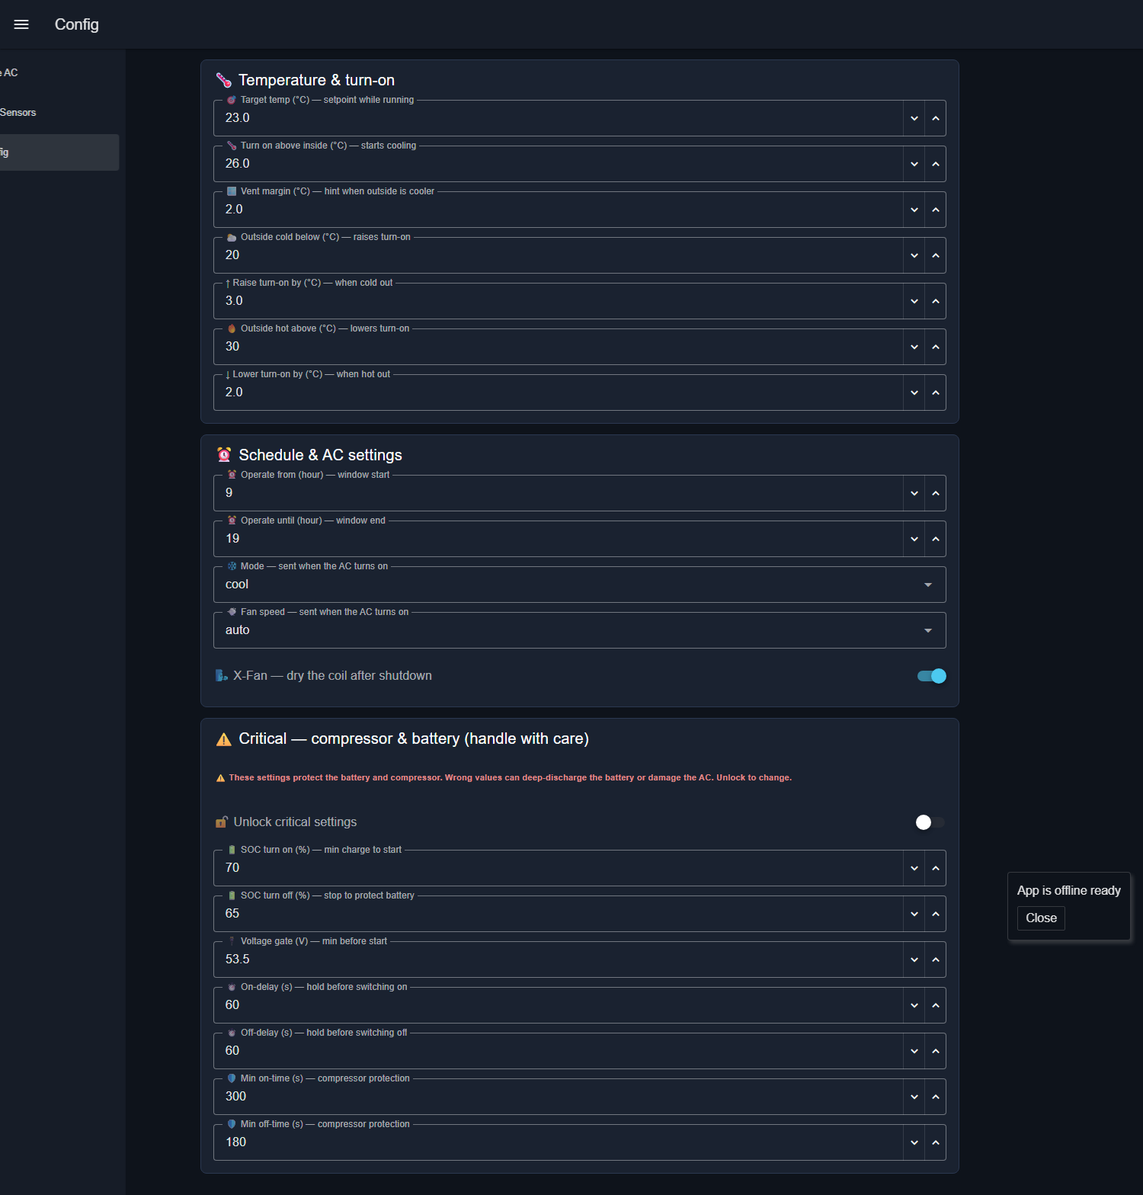
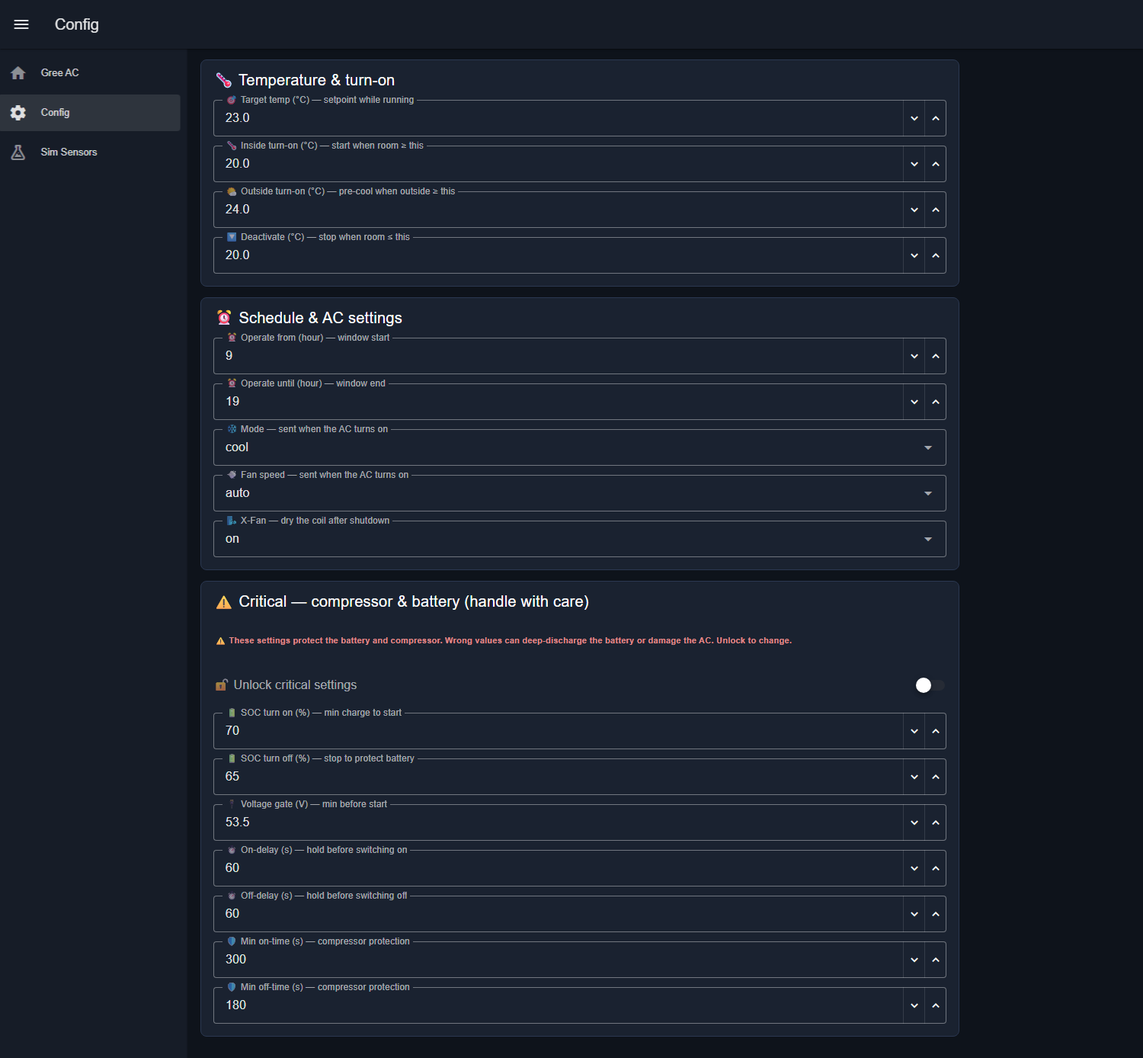
docs: refresh dashboard screenshots, restructure README, streamline CLAUDE.md
- Regenerate all four dashboard screenshots against the current stack
  (home, config, sim-sensors, sim simulator) — they now reflect the
  segmented operating-mode panel, mdi gauge icons, deactivate-temp config,
  and renamed trend series.
- README: lead the Usage section with the real Dashboard 2.0 production flow
  + home/config screenshots; move the legacy Dashboard-1.0 example into a
  clearly-labelled collapsed block; embed the sim-sensors page; fix the
  screenshot-generation note and intro grammar.
- CLAUDE.md: streamline to the high-signal, repo-specific facts; add the
  Dashboard 2.0 styling and config-persistence gotchas learned in this pass.

diff --git a/CLAUDE.md b/CLAUDE.md
@@ -4,124 +4,68 @@ Guidance for Claude Code sessions in this repo.
 
 ## What this repo is
 
-`node-red-contrib-gree-hvac` — Node-RED nodes that control Gree air-conditioner units over their UDP/AES protocol. The repo also ships a software simulator of a Gree AC plus a docker-compose stack so the nodes can be developed and tested without hardware.
+`node-red-contrib-gree-hvac` — Node-RED nodes that control Gree air-conditioners over their UDP/AES protocol. Ships a software simulator of a Gree AC plus a docker-compose stack so the nodes can be developed and tested without hardware.
 
 ## Layout
 
 ```
-gree-hvac/                 # the published Node-RED nodes
-  gree-hvac.js             #   main control + observe node (wraps gree-hvac-client + ConnectionManager)
-  gree-hvac-config.js      #   device config node (host + port)
-  gree-hvac-discover.js    #   UDP broadcast discovery node
-  lib/connection-manager.js#   24/7 reconnect, backoff, watchdogs
-  lib/validation.js
-test/                      # unit tests for the nodes (node:test)
-test/e2e/                  # end-to-end tests that drive the full docker-compose stack
-sim/                       # standalone Gree simulator
-  src/cipher.js            #   AES-ECB + AES-GCM (mirrors gree-hvac-client/src/encryption-service)
-  src/transformer.js       #   vendor <-> friendly property/value maps
-  src/state.js             #   mutable device state (Pow, Mod, SetTem, TemSen, ...)
-  src/simulator.js         #   UDP server: discover / bind / status / cmd handlers
-  src/dashboard.js         #   HTTP + SSE dashboard (state, faults, sensors)
-  src/sensors.js           #   mock Victron/Ruuvi sensor values for the example flow
-  src/fault-injection.js   #   dropEvery / dropProbability / latency / jitter
-  bin/gree-sim.js          #   CLI entrypoint (env-driven config)
-  public/                  #   dashboard HTML/CSS/JS
-  test/                    #   unit tests for the sim itself
-docker/nodered/            # Node-RED service image: contrib package + sample flow + mocks tab
-docker-compose.yml         # gree-sim + node-red on a user-defined bridge; sim aliased as gree.lan
-.github/workflows/
-  ci.yml                   #   lint + unit tests (Node 18 + 20 matrix)
-  e2e.yml                  #   sim unit tests + docker-compose e2e
-  release.yml              #   tag-driven (push v*) — sets package version from tag, npm publish, GH release with .tgz
+gree-hvac/                     published nodes
+  gree-hvac.js                   control/observe node (wraps gree-hvac-client + ConnectionManager)
+  lib/connection-manager.js      24/7 reconnect, backoff, watchdogs; swallows client 'error' events
+  lib/validation.js              drops unknown/invalid properties before send
+  gree-hvac-config.js            device host+port      gree-hvac-discover.js  UDP broadcast discovery
+sim/                           standalone Gree simulator (cipher, transformer, state,
+                               UDP server, HTTP+SSE dashboard, fault injection)
+docker/nodered/                Node-RED image: contrib pkg + flow sources + merge/push/pull scripts
+test/  test/e2e/  sim/test/    node:test unit + e2e suites
+docs/PROTOCOL.md               full protocol + property/value spec
 ```
 
 ## Daily commands
 
-```bash
+```
 npm test           # unit tests for the contrib nodes
-npm run test:sim   # unit tests for the simulator (in-process)
+npm run test:sim   # simulator unit tests (in-process)
 npm run sim:up     # docker compose up -d --build (sim + node-red)
 npm run sim:down   # tear down + remove volumes
 npm run sim:logs   # tail container logs
-npm run test:e2e   # bring stack up, run e2e suite, tear down
-npm run flow:push  # deploy host flow sources to the running editor (no rebuild)
+npm run test:e2e   # bring stack up, run e2e, tear down
+npm run flow:push  # deploy flow sources to the running editor (no rebuild)
 npm run flow:pull  # capture the editor's deployed flow back into the source files
 ```
 
-While iterating on e2e tests: `E2E_SKIP_BUILD=1 E2E_KEEP_UP=1 npm run test:e2e` to reuse images and leave the stack running.
+Iterating on e2e: `E2E_SKIP_BUILD=1 E2E_KEEP_UP=1 npm run test:e2e` reuses images and leaves the stack up.
 
 ## Conventions
 
-- **Node version**: 18+ (matches `engines.node` and the dockerfiles).
-- **Tests**: `node --test` (no jest/mocha). Tests live next to what they cover (`test/`, `sim/test/`, `test/e2e/`).
-- **Logging**: each node accepts a `logLevel` config; the contrib node forwards it into the client.
-- **Style**: ESLint + Prettier enforced via `npm run lint`. Single quotes, 4-space indent in JS, 2-space in JSON/YAML.
+- Node 18+ (`engines.node` + dockerfiles).
+- Tests: `node --test` (no jest/mocha), beside what they cover.
+- Style: ESLint + Prettier (`npm run lint`). Single quotes, 4-space JS, 2-space JSON/YAML. The pre-push hook runs `eslint --fix`; `GREE_SKIP_LINT=1 git push` to skip.
+- Each node takes a `logLevel`; the contrib node forwards it into the client.
 
-## Gree protocol cheat-sheet
+## Editing the flow (the non-obvious part)
 
-Full human-readable spec (transport, encryption, message flow, every property + value, the TemSen +40 quirk): **`docs/PROTOCOL.md`**. Quick reference below.
+Flow source is split: `docker/nodered/flows.user.json` = **production** (control logic + dashboards; deploy to real hardware), `flows.mocks.json` = **sim-only** (mock Victron/Ruuvi sensors + Sim Sensors/Clock pages). `merge-flows.js` concatenates them into `flows.json` at image build time. **Don't add mock data to the production file — edit `flows.mocks.json`.**
 
-The wire format lives in `node_modules/gree-hvac-client/src/`. The simulator mirrors it.
+- `npm run flow:push` — merge both sources → full-deploy to the running editor (instant, no rebuild); then refresh the browser.
+- `npm run flow:pull` — capture the deployed flow → split back into the two source files (order-preserving, so a small edit is a small diff; adds harmless Node-RED normalisation).
+- Both target `http://127.0.0.1:1880` (override `NR_URL`); optional target arg (`:user`/`:mocks`). A rebuild (`sim:dev`) is only needed when contrib node code or the image changes — not for flow edits.
 
-| Step       | Client → Device                                       | Device → Client                              |
-| ---------- | ----------------------------------------------------- | -------------------------------------------- |
-| Discover   | `{"t":"scan"}` (unencrypted, UDP broadcast or unicast) | `{t:"pack", pack:<ECB(generic_key) {t:"dev", cid, mac, name, ...}>}` |
-| Bind       | `{t:"pack", pack:<ECB(generic_key) {t:"bind", mac, uid:0}>}` | `{t:"pack", pack:<ECB(generic_key) {t:"bindok", key:<16-char device key>}>}` |
-| Status     | `{t:"pack", pack:<ECB(device_key) {t:"status", mac, cols:[...]}>}` | `{t:"pack", pack:<ECB(device_key) {t:"dat", cols, dat}>}` |
-| Set        | `{t:"pack", pack:<ECB(device_key) {t:"cmd", opt:[...], p:[...]}>}` | `{t:"pack", pack:<ECB(device_key) {t:"res", opt, val}>}` |
+Dashboard is **Dashboard 2.0** (`@flowfuse/node-red-dashboard`):
+- `ui-button` ignores the legacy `bgcolor`/`color`; use `buttonColor`/`textColor` (settable at runtime via `msg.ui_update`). There is no dynamic `enabled` — "disable" a button by recolouring it grey.
+- Inspect a widget's exact schema: `docker exec gree-nodered sh -c 'grep -n "defaults:" -A40 /data/node_modules/@flowfuse/node-red-dashboard/nodes/widgets/ui_<widget>.html'`.
 
-The same envelope works for GCM-cipher devices; the inner payload is AES-128-GCM with a fixed nonce + AAD (`qualcomm-test`). Generic keys: ECB = `a3K8Bx%2r8Y7#xDh`, GCM = `{yxAHAY_Lm6pbC/<`. After `bindok`, both sides switch to the device key.
+## Gree protocol
+
+Full spec (transport, encryption, every property + value, the TemSen +40 quirk): **`docs/PROTOCOL.md`**. The simulator mirrors `node_modules/gree-hvac-client/src/`. Generic keys: ECB `a3K8Bx%2r8Y7#xDh`, GCM `{yxAHAY_Lm6pbC/<`; after `bindok` both sides switch to the device key.
 
 ## Releasing
 
-Releases are tag-driven (`release.yml` triggers on `push: tags: v*`). To cut a release:
+Tag-driven (`release.yml` on `push: tags: v*`): sets `package.json` version from the tag, `npm publish` (currently gated/disabled), GH Release with the `.tgz`. No auto-bump — pick the version manually.
 
-```bash
-git tag -s vX.Y.Z -m "Release vX.Y.Z"
-git push origin vX.Y.Z
-```
+## Gotchas
 
-The workflow sets `package.json` version from the tag, runs `npm publish` (needs `NPM_TOKEN` secret + the `release` GitHub environment), and creates a GitHub Release with the `.tgz` attached. There is no auto-bump from commit messages — pick the version manually.
-
-## Production vs simulator
-
-- **`docker/nodered/flows.user.json` is the production flow** — the one to import into a real Node-RED (e.g. on Venus OS) driving real Gree hardware. It contains only the control logic + dashboards; no simulator/mock dependencies.
-- **`docker/nodered/flows.mocks.json` is simulator-only.** `merge-flows.js` appends it to the user flow at image build time to produce the `flows.json` that runs *inside the docker stack* (mock Victron/Ruuvi sensors, the Sim Sensors + Sim Clock pages). It must **not** be deployed to real hardware.
-- For real hardware: import `flows.user.json`, point the `gree-hvac-config` node at the AC's real host/IP (the sample uses `gree.lan`), and wire the real Victron/Ruuvi input nodes (named `Battery SOC`, `Battery State`, `Battery Voltage`, `Ruuvi Inside`, `Ruuvi Outside`) into `Collect Data`.
-
-## Editing the flow (merge / push / pull)
-
-The flow source is split across two files (`flows.user.json` = production, `flows.mocks.json` = sim-only mocks tab). Three scripts in `docker/nodered/` move between those sources and the runtime. They are inverses of each other:
-
-| Script | npm | Direction | What it does |
-| ------ | --- | --------- | ------------ |
-| `merge-flows.js` | — (build step) | sources → image | Concatenates `flows.user.json` + `flows.mocks.json` into `flows.json`, baked into the node-red image at **build time**. Run automatically in the Dockerfile. |
-| `push-flows.js` | `npm run flow:push` | sources → **running** editor | Merges the two sources and full-deploys them to the running Node-RED via `POST /flows`. Loads instantly, persists to `/data` — **no rebuild**. |
-| `pull-flows.js` | `npm run flow:pull` | running editor → sources | Fetches the deployed flow from `GET /flows` and splits it back into `flows.user.json` + `flows.mocks.json`, classifying nodes by tab membership + config reachability (shared `ui-base`/`ui-theme` stay with the user flow so the files never collide on merge). Order-preserving, so a one-widget edit is a one-line diff. |
-
-**Inner loop for editing flow source on the host** (no rebuild needed):
-
-```bash
-# edit flows.user.json / flows.mocks.json, then:
-npm run flow:push        # deploy to the running stack
-# …then refresh the editor in the browser
-```
-
-**Inner loop for editing in the browser editor**, then capturing it back to the repo:
-
-```bash
-# edit + Deploy in the editor at :1880, then:
-npm run flow:pull        # writes both source files; review with git diff
-```
-
-`flow:pull[:user|:mocks]` and `flow:push[both|user]` accept a target arg to limit which side they touch. Both default to the full set and target `http://127.0.0.1:1880` (override with `NR_URL`). A rebuild (`npm run sim:dev`) is only needed when the **contrib node code** (`gree-hvac/*.js`) or the image changes — not for flow edits.
-
-Caveats: `flow:push` overwrites whatever is deployed (warn dialog if you have unsaved editor edits). A `flow:pull` round-trip introduces harmless Node-RED normalisation (it reorders nodes — undone by the script — clamps long comment positions, drops redundant `outputs`, adds an empty trailing output array); none of it changes behaviour, so just skim the `git diff`.
-
-## Things to know
-
-- **Actions on this repo**: push events to branches do not trigger Actions; only tag pushes do (release.yml) and PR/push to master (ci.yml + e2e.yml). If a workflow seems to be missing, check repo Actions settings before assuming a config bug.
-- **The example flow** at `docker/nodered/flows.user.json` is the user's real flow. The mocks tab in `flows.mocks.json` is merged in at image build time (`merge-flows.js`) — don't edit the user file to add mock data; edit the mocks file.
-- **`gree.lan`** is hard-coded in the example flow's config node. Docker-compose aliases the sim container as `gree.lan` on `sim-net` so the flow resolves without modification.
-- **The simulator dashboard at `:8080`** is a standalone Gree-device simulator — it controls the simulated AC unit and simulates its protocol link (fault injection). It has **no** dependency on the example flow. Mock Victron/Ruuvi sensor values are set from the Node-RED "Sim Sensors" page (which POSTs `/api/sensors`).
+- **`gree.lan`** is hard-coded in the example flow's config node; docker-compose aliases the sim container as `gree.lan` so it resolves without editing the flow.
+- The **sim dashboard at :8080** is a standalone Gree-device simulator (drives the simulated AC + fault injection) with no dependency on the example flow. Mock Victron/Ruuvi values come from the Node-RED "Sim Sensors" page (POST `/api/sensors`).
+- **Workflow triggers**: only tag pushes (release.yml) and PR/push-to-master (ci.yml + e2e.yml) run Actions; pushes to feature branches don't.
+- Config persists via the `persistent`/`default` localfilesystem context store (`settings.js`), so it survives restarts where `/data` persists. The docker `node-red` service has **no `/data` volume**, so a rebuild/recreate wipes it (a plain `docker restart` keeps it).

diff --git a/README.md b/README.md
@@ -18,7 +18,7 @@
   <a href="LICENSE"><img src="https://img.shields.io/badge/license-MIT-blue.svg" alt="License: MIT" /></a>
 </p>
 
-Provides a node for control Gree HVAC (Heating, ventilation, and air conditioning).
+Provides nodes to control Gree HVAC (heating, ventilation, and air conditioning) units.
 
 Designed for unattended 24/7 operation: the node owns the client lifecycle, drives reconnect with exponential backoff, and has two watchdogs (silence-while-connected and stuck-in-connecting) so a wedged Gree WiFi module recovers without a physical power cycle. See [CHANGELOG.md](CHANGELOG.md) for the full list of reliability features.
 
@@ -59,11 +59,30 @@ Or download the `.tgz` from the [Releases page](https://github.com/apachler/node
 Usage
 -----
 
-Import this flow for a ready-made control dashboard (power, mode, temperature, fan, swing, and the feature toggles). For what each property and value means, see the [**Gree protocol & property reference**](docs/PROTOCOL.md).
+The package gives you the three nodes above — wire `gree-hvac` into whatever dashboard or automation you like. For a ready-made setup, import the bundled **production flow** [`docker/nodered/flows.user.json`](docker/nodered/flows.user.json): a PV-surplus AC controller with a full Dashboard 2.0 UI — live status gauges, an Automatic/Manual operating-mode panel with direct AC ON/OFF, trend charts, and a Config page for every threshold. See [Example flow for real hardware](#example-flow-for-real-hardware) for wiring it to your AC and Victron/Ruuvi inputs.
+
+<p align="center">
+  <img src="docs/nodered-home.png" width="420" alt="Node-RED Dashboard 2.0 home page — status gauges, Automatic/Manual operating mode, AC controls, and trend charts" />
+</p>
+<p align="center">
+  <img src="docs/nodered-config.png" width="860" alt="Node-RED Dashboard 2.0 config page — temperature/deactivate thresholds, schedule, and battery/compressor protection settings" />
+</p>
+
+For what each property and value means, see the [**Gree protocol & property reference**](docs/PROTOCOL.md).
+
+<details>
+<summary>Minimal control panel for the classic Node-RED Dashboard (v1)</summary>
+
+A small standalone flow (power, mode, temperature, fan, swing, and the feature
+toggles) for users who just want basic manual control. It targets the **legacy**
+`node-red-dashboard` (Dashboard 1.0) — install that package separately; it does
+not use the Dashboard 2.0 UI shown above.
 
 ```json
 [{"id":"ff9fe48d.da79d8","type":"debug","z":"fcc6883.6f01278","name":"","active":true,"tosidebar":true,"console":false,"tostatus":false,"complete":"true","targetType":"full","x":550,"y":700,"wires":[]},{"id":"3cfb9d5c.2adfc2","type":"gree-hvac","z":"fcc6883.6f01278","name":"AC","device":"","interval":"1","x":280,"y":640,"wires":[["ff9fe48d.da79d8"],["417b67b1.9d77d8","ff9fe48d.da79d8"]]},{"id":"fab8d073.bed76","type":"switch","z":"fcc6883.6f01278","name":"","property":"topic","propertyType":"msg","rules":[{"t":"eq","v":"power","vt":"str"},{"t":"eq","v":"mode","vt":"str"},{"t":"eq","v":"temperature","vt":"str"},{"t":"eq","v":"fanSpeed","vt":"str"},{"t":"eq","v":"swingVert","vt":"str"},{"t":"eq","v":"swingHor","vt":"str"},{"t":"eq","v":"health","vt":"str"},{"t":"eq","v":"blow","vt":"str"},{"t":"eq","v":"lights","vt":"str"},{"t":"eq","v":"powerSave","vt":"str"}],"checkall":"true","repair":false,"outputs":10,"x":430,"y":460,"wires":[["f36ddc6a.6a76d"],["ed7a4d0b.d3c85"],["7f2711eb.f70ff"],["b0f5ed20.f0dc4"],["bb2fd30d.6faed"],["426d8937.d2e9a8"],["58310de9.08b1c4"],["5be9ffdd.e9e11"],["429db373.92628c"],["29e1bfb7.c963c"]]},{"id":"f36ddc6a.6a76d","type":"ui_switch","z":"fcc6883.6f01278","name":"","label":"Power","tooltip":"","group":"5c569ec8.d608f","order":1,"width":"0","height":"0","passthru":false,"decouple":"true","topic":"power","style":"","onvalue":"on","onvalueType":"str","onicon":"","oncolor":"","offvalue":"off","offvalueType":"str","officon":"","offcolor":"","x":610,"y":80,"wires":[["62c89d4e.1db264"]]},{"id":"429db373.92628c","type":"ui_switch","z":"fcc6883.6f01278","name":"","label":"Lights","tooltip":"","group":"5c569ec8.d608f","order":9,"width":"3","height":"1","passthru":false,"decouple":"true","topic":"lights","style":"","onvalue":"on","onvalueType":"str","onicon":"","oncolor":"","offvalue":"off","offvalueType":"str","officon":"","offcolor":"","x":610,"y":560,"wires":[["62c89d4e.1db264"]]},{"id":"7f2711eb.f70ff","type":"ui_numeric","z":"fcc6883.6f01278","name":"","label":"Temperature","tooltip":"","group":"5c569ec8.d608f","order":2,"width":0,"height":0,"passthru":false,"topic":"temperature","format":"{{value}}","min":"23","max":"25","step":1,"x":630,"y":200,"wires":[["62c89d4e.1db264"]]},{"id":"bb2fd30d.6faed","type":"ui_dropdown","z":"fcc6883.6f01278","name":"","label":"Vertical swing ","tooltip":"","place":"Select option","group":"5c569ec8.d608f","order":6,"width":0,"height":0,"passthru":false,"options":[{"label":"Default","value":"default","type":"str"},{"label":"Swing in full range","value":"full","type":"str"},{"label":"Fixed top","value":"fixedTop","type":"str"},{"label":"Fixed mid-top","value":"fixedMidTop","type":"str"},{"label":"Fixed mid","value":"fixedMid","type":"str"},{"label":"Fixed mid-bottom","value":"fixedMidBottom","type":"str"},{"label":"Fixed bottom","value":"fixedBottom","type":"str"},{"label":"Swing bottom","value":"swingBottom","type":"str"},{"label":"Swing mid-bottom","value":"swingMidBottom","type":"str"},{"label":"Swing mid","value":"swingMid","type":"str"},{"label":"Swing mid top","value":"swingMidTop","type":"str"},{"label":"Swing top","value":"swingTop","type":"str"}],"payload":"","topic":"swingVert","x":640,"y":320,"wires":[["62c89d4e.1db264"]]},{"id":"62c89d4e.1db264","type":"rbe","z":"fcc6883.6f01278","name":"","func":"rbe","gap":"","start":"","inout":"out","property":"payload","x":830,"y":700,"wires":[["3cfb9d5c.2adfc2","ff9fe48d.da79d8"]]},{"id":"426d8937.d2e9a8","type":"ui_dropdown","z":"fcc6883.6f01278","name":"","label":"Horizontal swing ","tooltip":"","place":"Select option","group":"5c569ec8.d608f","order":5,"width":0,"height":0,"passthru":false,"options":[{"label":"Default","value":"default","type":"str"},{"label":"Full","value":"full","type":"str"},{"label":"Fixed left","value":"fixedLeft","type":"str"},{"label":"Fixed mid-left","value":"fixedMidLeft","type":"str"},{"label":"Fixed mid","value":"fixedMid","type":"str"},{"label":"Fixed mid-right","value":"fixedMidRight","type":"str"},{"label":"Fixed right","value":"fixedRight","type":"str"},{"label":"Full alt","value":"fullAlt","type":"str"}],"payload":"","topic":"swingHor","x":640,"y":380,"wires":[["62c89d4e.1db264"]],"info":"Controls the swing mode of the horizontal air blades (not available on all units)"},{"id":"b0f5ed20.f0dc4","type":"ui_dropdown","z":"fcc6883.6f01278","name":"","label":"Fan speed","tooltip":"","place":"Select option","group":"5c569ec8.d608f","order":4,"width":0,"height":0,"passthru":false,"options":[{"label":"Auto","value":"auto","type":"str"},{"label":"Low","value":"low","type":"str"},{"label":"Medium low","value":"mediumLow","type":"str"},{"label":"Medium","value":"medium","type":"str"},{"label":"Medium high","value":"mediumHigh","type":"str"},{"label":"High","value":"high","type":"str"}],"payload":"","topic":"fanSpeed","x":630,"y":260,"wires":[["62c89d4e.1db264"]]},{"id":"29e1bfb7.c963c","type":"ui_switch","z":"fcc6883.6f01278","name":"","label":"Power save","tooltip":"","group":"5c569ec8.d608f","order":10,"width":"3","height":"1","passthru":false,"decouple":"true","topic":"powerSave","style":"","onvalue":"on","onvalueType":"str","onicon":"","oncolor":"","offvalue":"off","offvalueType":"str","officon":"","offcolor":"","x":630,"y":620,"wires":[["62c89d4e.1db264"]]},{"id":"417b67b1.9d77d8","type":"split","z":"fcc6883.6f01278","name":"","splt":"\\n","spltType":"str","arraySplt":1,"arraySpltType":"len","stream":false,"addname":"topic","x":290,"y":460,"wires":[["fab8d073.bed76"]]},{"id":"ed7a4d0b.d3c85","type":"ui_dropdown","z":"fcc6883.6f01278","name":"","label":"Mode","tooltip":"","place":"Select option","group":"5c569ec8.d608f","order":3,"width":"0","height":"0","passthru":false,"options":[{"label":"Auto","value":"auto","type":"str"},{"label":"Cool","value":"cool","type":"str"},{"label":"Dry","value":"dry","type":"str"},{"label":"Fan only","value":"fan_only","type":"str"},{"label":"Heat","value":"heat","type":"str"}],"payload":"","topic":"mode","x":610,"y":140,"wires":[["62c89d4e.1db264"]]},{"id":"58310de9.08b1c4","type":"ui_switch","z":"fcc6883.6f01278","name":"","label":"Cold plasma","tooltip":"","group":"5c569ec8.d608f","order":7,"width":"3","height":"1","passthru":false,"decouple":"true","topic":"health","style":"","onvalue":"on","onvalueType":"str","onicon":"","oncolor":"","offvalue":"off","offvalueType":"str","officon":"","offcolor":"","x":630,"y":440,"wires":[["62c89d4e.1db264"]]},{"id":"5be9ffdd.e9e11","type":"ui_switch","z":"fcc6883.6f01278","name":"","label":"X-Fan","tooltip":"","group":"5c569ec8.d608f","order":8,"width":"3","height":"1","passthru":false,"decouple":"true","topic":"blow","style":"","onvalue":"on","onvalueType":"str","onicon":"","oncolor":"","offvalue":"off","offvalueType":"str","officon":"","offcolor":"","x":610,"y":500,"wires":[["62c89d4e.1db264"]]},{"id":"5c569ec8.d608f","type":"ui_group","z":"","name":"AC","tab":"168c092a.469d97","disp":true,"width":"6","collapse":false},{"id":"168c092a.469d97","type":"ui_tab","z":"","name":"Home","icon":"dashboard","disabled":false,"hidden":false}]
 ```
+
+</details>
 
 Protocol
 --------
@@ -82,7 +101,11 @@ Example flow for real hardware
 
 [`docker/nodered/flows.user.json`](docker/nodered/flows.user.json) is the **production** flow — the one to import into a real Node-RED (e.g. on a Victron Venus OS) controlling real Gree hardware. It contains only the control logic and dashboards; it has no simulator dependencies. After importing, point the `gree-hvac-config` node at your AC's host/IP and wire your real Victron/Ruuvi input nodes into the `Collect Data` function (named `Battery SOC`, `Battery State`, `Battery Voltage`, `Ruuvi Inside`, `Ruuvi Outside`).
 
-The simulator-only `flows.mocks.json` (the Sim Sensors / Sim Clock pages and mock sensor feed) is merged in **only** for the docker stack and must not be deployed to hardware.
+The simulator-only `flows.mocks.json` (the Sim Sensors / Sim Clock pages and mock sensor feed) is merged in **only** for the docker stack and must not be deployed to hardware. Its dashboard page lets you drive the mock Victron/Ruuvi values and a simulated clock that the control logic reads instead of the wall clock:
+
+<p align="center">
+  <img src="docs/nodered-sim-sensors.png" width="760" alt="Node-RED Sim Sensors page (sim-only) — mock battery SOC/voltage/state, inside/outside temperature, and a simulated hour-of-day clock" />
+</p>
 
 Development with the simulator
 ------------------------------
@@ -95,7 +118,7 @@ The repo ships a software simulator of a Gree HVAC device, so you can develop an
 
 The dashboard shows live AC state and the **source** of each change ("Gree UDP protocol" when a client sets a value over the wire, "HTTP API" for a direct dashboard/REST action), plus controls to drive the AC directly, inject faults (packet drop / latency), and set the mock sensor values the example flow consumes.
 
-> The demo GIF and this screenshot are generated, not hand-placed — see [`docs/`](docs/) (`vhs docs/demo.tape` and `node docs/screenshot.mjs`).
+> The dashboard screenshots in this README are generated, not hand-placed — regenerate them with `node docs/screenshot.mjs` against a running stack (see [`docs/`](docs/)). `docs/demo.tape` renders an optional terminal demo GIF via [`vhs`](https://github.com/charmbracelet/vhs); it's also wired into the manual **Docs media** workflow.
 
 ### Requirements
 
